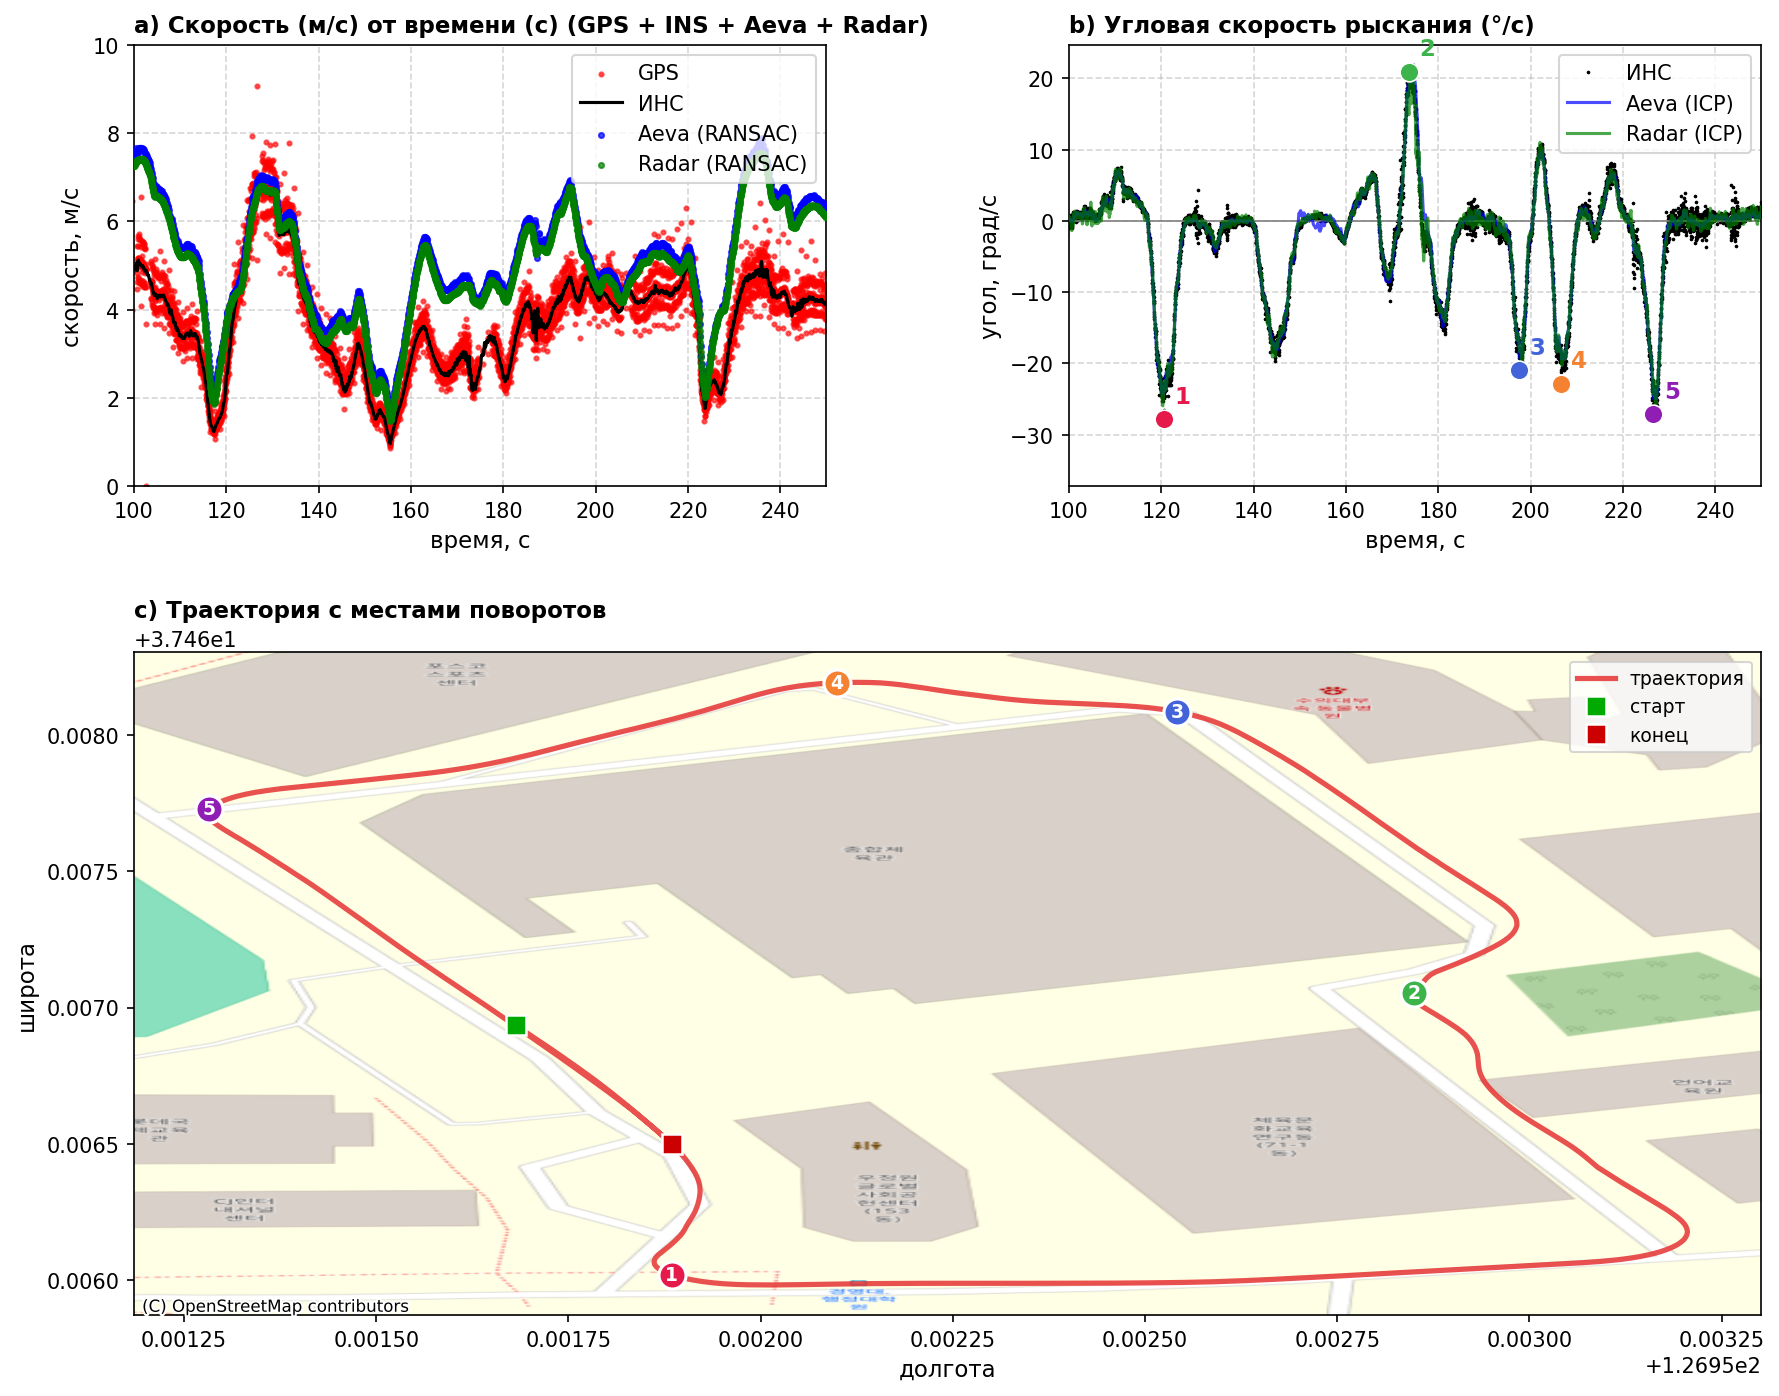
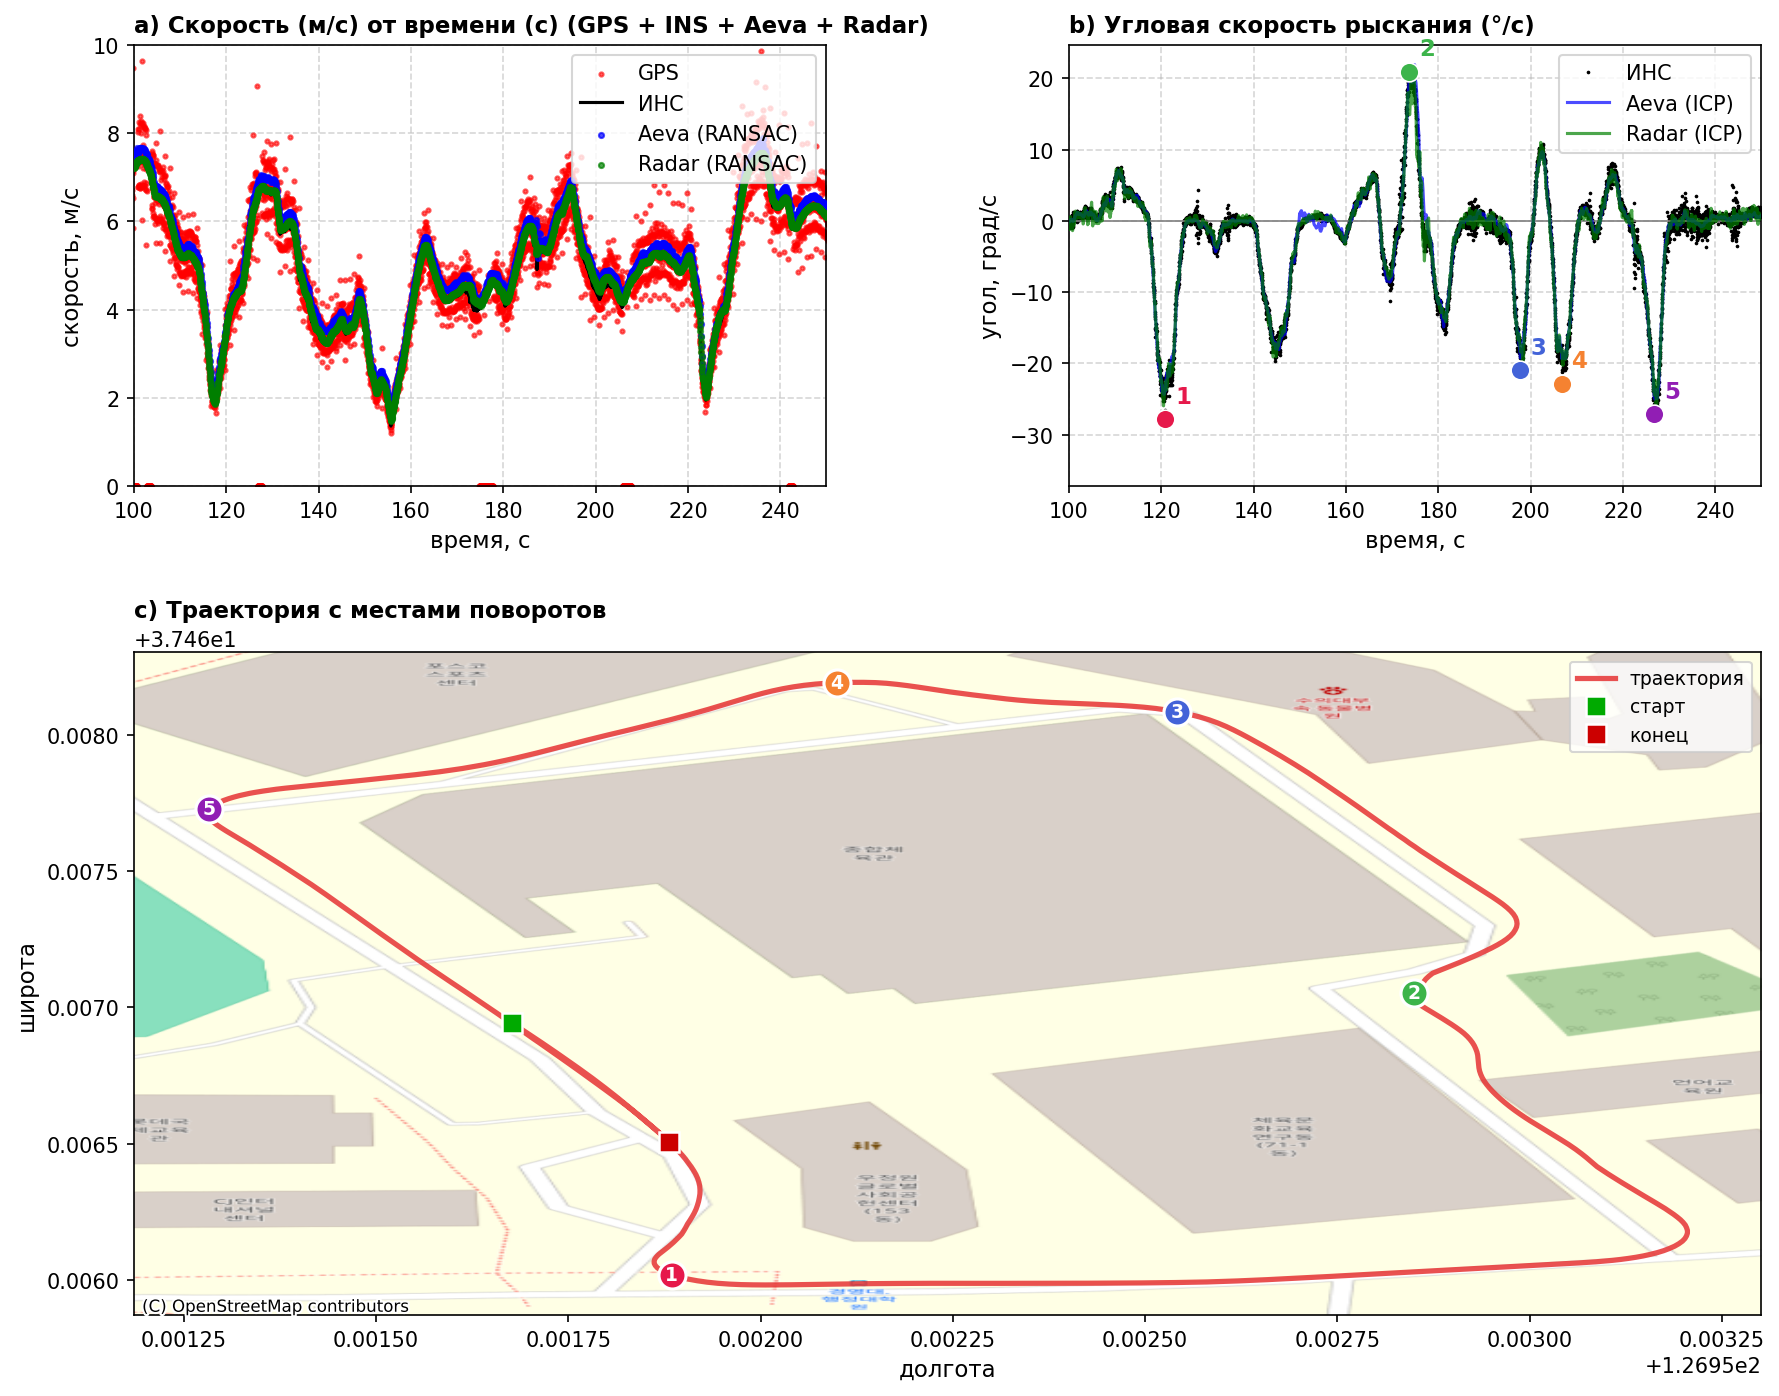
fix gps_to_v and ins_to_v

diff --git a/src/examples/velocity_direction_plot.py b/src/examples/velocity_direction_plot.py
@@ -25,16 +25,15 @@ from scipy.ndimage import uniform_filter1d
 from src.config import GPS_DATA_FILE, INSPVA_DATA_FILE
 from src.odometry import GPS_to_V, INS_to_V
 
-# ── Загрузка и подготовка данных ───────────────────────────────────────────────
-
+# Загрузка и подготовка данных
 print("Загрузка GPS...")
 gps_raw = pd.read_csv(GPS_DATA_FILE, header=None,
                       names=["timestamp", "lat", "lon", "height",
                              "c4", "c5", "c6", "c7", "c8", "c9", "c10", "c11", "c12"])
 gps_raw = gps_raw.reset_index(drop=True)
 # GPS_to_V модифицирует timestamp in-place (нс → с)
-Vx_gps, Vy_gps, ts_gps = GPS_to_V(gps_raw[["timestamp", "lat", "lon", "height"]].copy())
-speed_gps = np.sqrt(Vx_gps**2 + Vy_gps**2)
+Vx_gps, Vy_gps, Vz_gps, ts_gps = GPS_to_V(gps_raw[["timestamp", "lat", "lon", "height"]].copy())
+speed_gps = np.sqrt(Vx_gps**2 + Vy_gps**2 + Vz_gps**2)
 
 print("Загрузка INS (INSPVA)...")
 ins_raw = pd.read_csv(INSPVA_DATA_FILE, header=None,
@@ -47,16 +46,16 @@ azimuth_raw = ins_raw["azimuth"].values
 ts_ns_raw   = ins_raw["timestamp"].values.astype(np.float64)
 
 # INS_to_V модифицирует timestamp in-place (нс → с)
-Vx_ins, Vy_ins, ts_ins = INS_to_V(ins_raw[["timestamp", "latitude", "longitude",
-                                             "north_velocity", "east_velocity",
-                                             "up_velocity"]].copy())
-speed_ins = np.sqrt(Vx_ins**2 + Vy_ins**2)
+Vx_ins, Vy_ins, Vz_ins, ts_ins = INS_to_V(ins_raw[["timestamp", "latitude", "longitude",
+                                                     "north_velocity", "east_velocity",
+                                                     "up_velocity"]].copy())
+speed_ins = np.sqrt(Vx_ins**2 + Vy_ins**2 + Vz_ins**2)
 
 # Направление: угловая скорость рыскания из азимута INSPVA
 az_unwrap = np.unwrap(np.radians(azimuth_raw)) * 180.0 / np.pi
 yaw_rate  = np.gradient(az_unwrap, ts_ins)
 
-# ── Приведение к единой временной оси (начало движения) ───────────────────────
+# Приведение к единой временной оси (начало движения)
 t0_ins = ts_ins[0]
 ts_ins_rel = ts_ins - t0_ins
 ts_gps_rel = ts_gps - t0_ins
@@ -78,8 +77,7 @@ ts_ins_plot  = ts_ins_rel[ins_mask] - t_start
 speed_ins_plot = uniform_filter1d(speed_ins[ins_mask], size=5)
 yaw_rate_plot  = yaw_rate[ins_mask]
 
-# ── Построение графиков ────────────────────────────────────────────────────────
-
+# Построение графиков
 fig, axes = plt.subplots(1, 2, figsize=(12, 4.5))
 fig.subplots_adjust(wspace=0.35, bottom=0.13)
 
@@ -105,7 +103,7 @@ ax2.axhline(0, color="gray", linewidth=0.8)
 ax2.grid(True, linestyle="--", alpha=0.5)
 ax2.set_title("в)", loc="left", fontsize=11, fontweight="bold")
 
-# ── Сохранение ─────────────────────────────────────────────────────────────────
+# Сохранение
 out_path = os.path.join(
     os.path.dirname(os.path.dirname(os.path.dirname(os.path.abspath(__file__)))),
     "output", "velocity_direction_plot.png",

diff --git a/src/viz/plots.py b/src/viz/plots.py
@@ -125,14 +125,15 @@ def plot_velocity_comparison(gps_path: str, ins_path: str, output_path: str,
 
     azimuth_raw = ins_raw["azimuth"].values
 
-    # Вычисление скоростей
-    Vx_gps, Vy_gps, ts_gps = GPS_to_V(gps_raw[["timestamp", "lat", "lon", "height"]].copy())
-    speed_gps = np.sqrt(Vx_gps**2 + Vy_gps**2)
+    # Вычисление скоростей. Модуль = sqrt(Vx²+Vy²+Vz²): нельзя отбрасывать Vz,
+    # ECEF-оси наклонены относительно локальной горизонтали.
+    Vx_gps, Vy_gps, Vz_gps, ts_gps = GPS_to_V(gps_raw[["timestamp", "lat", "lon", "height"]].copy())
+    speed_gps = np.sqrt(Vx_gps**2 + Vy_gps**2 + Vz_gps**2)
 
-    Vx_ins, Vy_ins, ts_ins = INS_to_V(ins_raw[["timestamp", "latitude", "longitude",
-                                                 "north_velocity", "east_velocity",
-                                                 "up_velocity"]].copy())
-    speed_ins = np.sqrt(Vx_ins**2 + Vy_ins**2)
+    Vx_ins, Vy_ins, Vz_ins, ts_ins = INS_to_V(ins_raw[["timestamp", "latitude", "longitude",
+                                                         "north_velocity", "east_velocity",
+                                                         "up_velocity"]].copy())
+    speed_ins = np.sqrt(Vx_ins**2 + Vy_ins**2 + Vz_ins**2)
 
     # Угловая скорость рыскания из азимута INSPVA
     az_unwrap = np.unwrap(np.radians(azimuth_raw)) * 180.0 / np.pi
@@ -668,27 +669,28 @@ def plot_mos(
     plt.tight_layout()
     plt.show()
 
-# ── Velocity from GPS / INS ─────────────────────────────────────────────────
- 
-def plot_ego_velocity(Vx: np.ndarray, Vy: np.ndarray, ts: np.ndarray,
-                      source: str = "GPS") -> None:
+# Velocity from GPS / INS
+def plot_ego_velocity(Vx: np.ndarray, Vy: np.ndarray, Vz: np.ndarray,
+                      ts: np.ndarray, source: str = "GPS") -> None:
     """
-    График компонент эго-скорости (Vx, Vy) и абсолютной скорости от времени.
- 
+    График компонент эго-скорости (Vx, Vy, Vz) и абсолютной скорости от времени.
+
     Parameters:
         Vx     : np.ndarray — скорость по оси X (ECEF), м/с
         Vy     : np.ndarray — скорость по оси Y (ECEF), м/с
+        Vz     : np.ndarray — скорость по оси Z (ECEF), м/с
         ts     : np.ndarray — временные метки (секунды)
         source : str — источник данных ('GPS' или 'INS')
     """
-    V = np.sqrt(Vx**2 + Vy**2)
+    V = np.sqrt(Vx**2 + Vy**2 + Vz**2)
     t_rel = ts - ts[0]  # относительное время от начала
- 
+
     fig, (ax1, ax2) = plt.subplots(2, 1, figsize=(12, 8), sharex=True)
     fig.suptitle(f"Ego-velocity from {source}", fontsize=13)
- 
+
     ax1.plot(t_rel, Vx, label="Vx", linewidth=0.8)
     ax1.plot(t_rel, Vy, label="Vy", linewidth=0.8)
+    ax1.plot(t_rel, Vz, label="Vz", linewidth=0.8)
     ax1.set_ylabel("Velocity [m/s]")
     ax1.set_title("ECEF velocity components")
     ax1.legend()

diff --git a/src/odometry/gps_velocity.py b/src/odometry/gps_velocity.py
@@ -14,10 +14,11 @@ def geodetic_to_cartesian(lat: float, lon: float, alt: float):
     Returns:
         (x, y, z) в метрах (ECEF)
     """
+    # Убеждаемся, что используется lon, lat порядок (always_xy=True) во избежание свапа осей
     geodetic_crs = pyproj.CRS("EPSG:4326")
     ecef_crs = pyproj.CRS("EPSG:4978")
-    transformer = pyproj.Transformer.from_crs(geodetic_crs, ecef_crs)
-    x, y, z = transformer.transform(lat, lon, alt)
+    transformer = pyproj.Transformer.from_crs(geodetic_crs, ecef_crs, always_xy=True)
+    x, y, z = transformer.transform(lon, lat, alt)
     return x, y, z
  
  
@@ -32,34 +33,42 @@ def GPS_to_V(GPS):
     Parameters:
         GPS : dict-like (DataFrame) с ключами:
               'timestamp' (нс), 'lat', 'lon', 'height'
- 
+
     Returns:
         Vx : np.ndarray — скорость по оси X (ECEF), м/с
         Vy : np.ndarray — скорость по оси Y (ECEF), м/с
+        Vz : np.ndarray — скорость по оси Z (ECEF), м/с
         ts : np.ndarray — временные метки (секунды)
     """
-    Vx = []
-    Vy = []
-    ts = []
- 
+    # Vectorized, robust computation using correct axis ordering
     geodetic_crs = pyproj.CRS("EPSG:4326")
     ecef_crs = pyproj.CRS("EPSG:4978")
-    transformer = pyproj.Transformer.from_crs(geodetic_crs, ecef_crs)
- 
-    GPS['timestamp'] = GPS['timestamp'] / 1e9
- 
-    for i in range(1, len(GPS)):
-        if GPS['lat'][i - 1] != GPS['lat'][i]:
-            x1, y1, z1 = transformer.transform(
-                GPS['lat'][i - 1], GPS['lon'][i - 1], GPS['height'][i - 1]
-            )
-            x2, y2, z2 = transformer.transform(
-                GPS['lat'][i], GPS['lon'][i], GPS['height'][i]
-            )
-            dt = GPS['timestamp'][i] - GPS['timestamp'][i - 1]
-            Vx.append((x2 - x1) / dt)
-            Vy.append((y2 - y1) / dt)
-            ts.append(GPS['timestamp'][i])
- 
-    return np.array(Vx), np.array(Vy), np.array(ts)
+    transformer = pyproj.Transformer.from_crs(geodetic_crs, ecef_crs, always_xy=True)
+
+    # timestamps -> seconds
+    ts_all = np.asarray(GPS['timestamp'], dtype=float) / 1e9
+
+    lons = np.asarray(GPS['lon'], dtype=float)
+    lats = np.asarray(GPS['lat'], dtype=float)
+    alts = np.asarray(GPS['height'], dtype=float)
+
+    # трансформирует массивы (lon, lat, alt) -> (x, y, z) в ECEF
+    x_all, y_all, z_all = transformer.transform(lons, lats, alts)
+
+    # конечные разности между последовательными кадрами
+    dt = ts_all[1:] - ts_all[:-1]
+    valid = dt > 0
+    if not valid.any():
+        return np.array([]), np.array([]), np.array([]), np.array([])
+
+    dx = x_all[1:] - x_all[:-1]
+    dy = y_all[1:] - y_all[:-1]
+    dz = z_all[1:] - z_all[:-1]
+
+    Vx_arr = dx[valid] / dt[valid]
+    Vy_arr = dy[valid] / dt[valid]
+    Vz_arr = dz[valid] / dt[valid]
+    ts_arr = ts_all[1:][valid]
+
+    return np.array(Vx_arr), np.array(Vy_arr), np.array(Vz_arr), np.array(ts_arr)
  

diff --git a/src/app.py b/src/app.py
@@ -64,6 +64,8 @@ def main() -> None:
                         help="Путь к корню датасета Deskewed_LiDAR для mos-sequence") # возможно, вообще убрать
     parser.add_argument("--n-context", type=int, required=False, default=3,
                         help="Размер временного окна для temporal MOS (по умолчанию: 3)") # возможно, вообще убрать
+    parser.add_argument("--disable-temporal", action="store_true",
+                        help="Отключить temporal consistency (pose-based) для mos-sequence; по умолчанию: включено при наличии поз")
     parser.add_argument("--threshold", type=float, required=False, default=0.85,
                         help="Порог P(moving) для RF классификатора (по умолчанию: 0.85)")
     parser.add_argument("--inlier-threshold", type=float, required=False, default=0.5,
@@ -262,11 +264,14 @@ def main() -> None:
             print("Ошибка: кадры не найдены. Проверьте --sequence и --sensor.")
             return
 
-        if poses is not None and len(poses) == len(frames):
+        if not args.disable_temporal and poses is not None and len(poses) == len(frames):
             print(f"[MOS] Using temporal consistency (n_context={args.n_context})")
             is_moving_list = seg.segment_sequence(frames, poses, n_context=args.n_context)
         else:
-            print("[MOS] No poses available — using per-frame segmentation")
+            if args.disable_temporal:
+                print("[MOS] Temporal consistency disabled by flag: using per-frame segmentation")
+            else:
+                print("[MOS] No poses available - using per-frame segmentation")
             is_moving_list = seg.segment_frames(frames)
 
         total_moving = sum(int(m.sum()) for m in is_moving_list)
@@ -333,8 +338,8 @@ def main() -> None:
                 from src.viz.plots import plot_ego_velocity
                 gps_df = read_GPS(args.gps)
                 if gps_df is not None:
-                    Vx, Vy, ts = GPS_to_V(gps_df)
-                    plot_ego_velocity(Vx, Vy, ts, source="GPS")
+                    Vx, Vy, Vz, ts = GPS_to_V(gps_df)
+                    plot_ego_velocity(Vx, Vy, Vz, ts, source="GPS")
             else:
                 print("Ошибка: для --gps поддерживаются action='map' и action='ego-velocity'")
 
@@ -350,8 +355,8 @@ def main() -> None:
                 from src.odometry import INS_to_V
                 from src.viz.plots import plot_ego_velocity
                 ins_df = load_ins(args.ins)
-                Vx, Vy, ts = INS_to_V(ins_df)
-                plot_ego_velocity(Vx, Vy, ts, source="INS")
+                Vx, Vy, Vz, ts = INS_to_V(ins_df)
+                plot_ego_velocity(Vx, Vy, Vz, ts, source="INS")
             else:
                 print("Ошибка: для --ins поддерживаются action='track' и action='ego-velocity'")
 

diff --git a/src/odometry/ins_velocity.py b/src/odometry/ins_velocity.py
@@ -3,48 +3,51 @@ import numpy as np
  
 def INS_to_V(INS):
     """
-    Преобразование INS-скоростей (NED) в ECEF-скорости (Vx, Vy).
- 
+    Преобразование INS-скоростей (NED) в ECEF-скорости (Vx, Vy, Vz).
+
     Для каждой точки строится матрица поворота R из локальной NED-системы
     в ECEF по текущей широте и долготе, затем Vxyz = R @ [Ve, Vn, Vu].
- 
+    
     Parameters:
         INS : dict-like (DataFrame) с ключами:
               'timestamp' (нс), 'latitude', 'longitude',
               'north_velocity', 'east_velocity', 'up_velocity'
- 
+
     Returns:
         Vx : np.ndarray — скорость по оси X (ECEF), м/с
         Vy : np.ndarray — скорость по оси Y (ECEF), м/с
+        Vz : np.ndarray — скорость по оси Z (ECEF), м/с
         ts : np.ndarray — временные метки (секунды)
     """
     INS['timestamp'] = INS['timestamp'] / 1e9
- 
+
     Vn = INS['north_velocity']
     Ve = INS['east_velocity']
     Vu = INS['up_velocity']
- 
+
     Vx = []
     Vy = []
+    Vz = []
     ts = []
- 
+
     for i in range(len(INS)):
         phi = INS['latitude'][i] * np.pi / 180
         lam = INS['longitude'][i] * np.pi / 180
- 
-        # Матрица поворота NED → ECEF
+
+        # Матрица поворота NED → ECEF (для входа [Ve, Vn, Vu])
         R = np.array([
             [-np.sin(lam), -np.sin(phi) * np.cos(lam), np.cos(phi) * np.cos(lam)],
             [ np.cos(lam), -np.sin(phi) * np.sin(lam), np.cos(phi) * np.sin(lam)],
             [           0,  np.cos(phi),                np.sin(phi)],
         ])
- 
+
         Vgps = np.array([[Ve[i]], [Vn[i]], [Vu[i]]])
         Vxyz = R @ Vgps
- 
+
         Vx.append(Vxyz[0, 0])
         Vy.append(Vxyz[1, 0])
+        Vz.append(Vxyz[2, 0])
         ts.append(INS['timestamp'][i])
- 
-    return np.array(Vx), np.array(Vy), np.array(ts)
+
+    return np.array(Vx), np.array(Vy), np.array(Vz), np.array(ts)
  

diff --git a/README.md b/README.md
@@ -198,6 +198,9 @@ python -m src.app --dataset helimos --action mos-sequence --sequence data/Deskew
 - `--n-frames` — число кадров для обработки (по умолчанию: `5`)
 - `--n-context` — размер временного окна для temporal consistency (по умолчанию: `3`)
 
+Дополнительно:
+- `--disable-temporal` - отключить использование pose-based temporal consistency и выполнять только покадровую сегментацию (полезно при плохих позах или одометрии, или для быстрой отладки).
+
 ### 4. Покадровый рендеринг последовательности (для GIF / видео)
 
 Обработка всех кадров Aeva и сохранение каждог как PNG с фиксированными осями:
